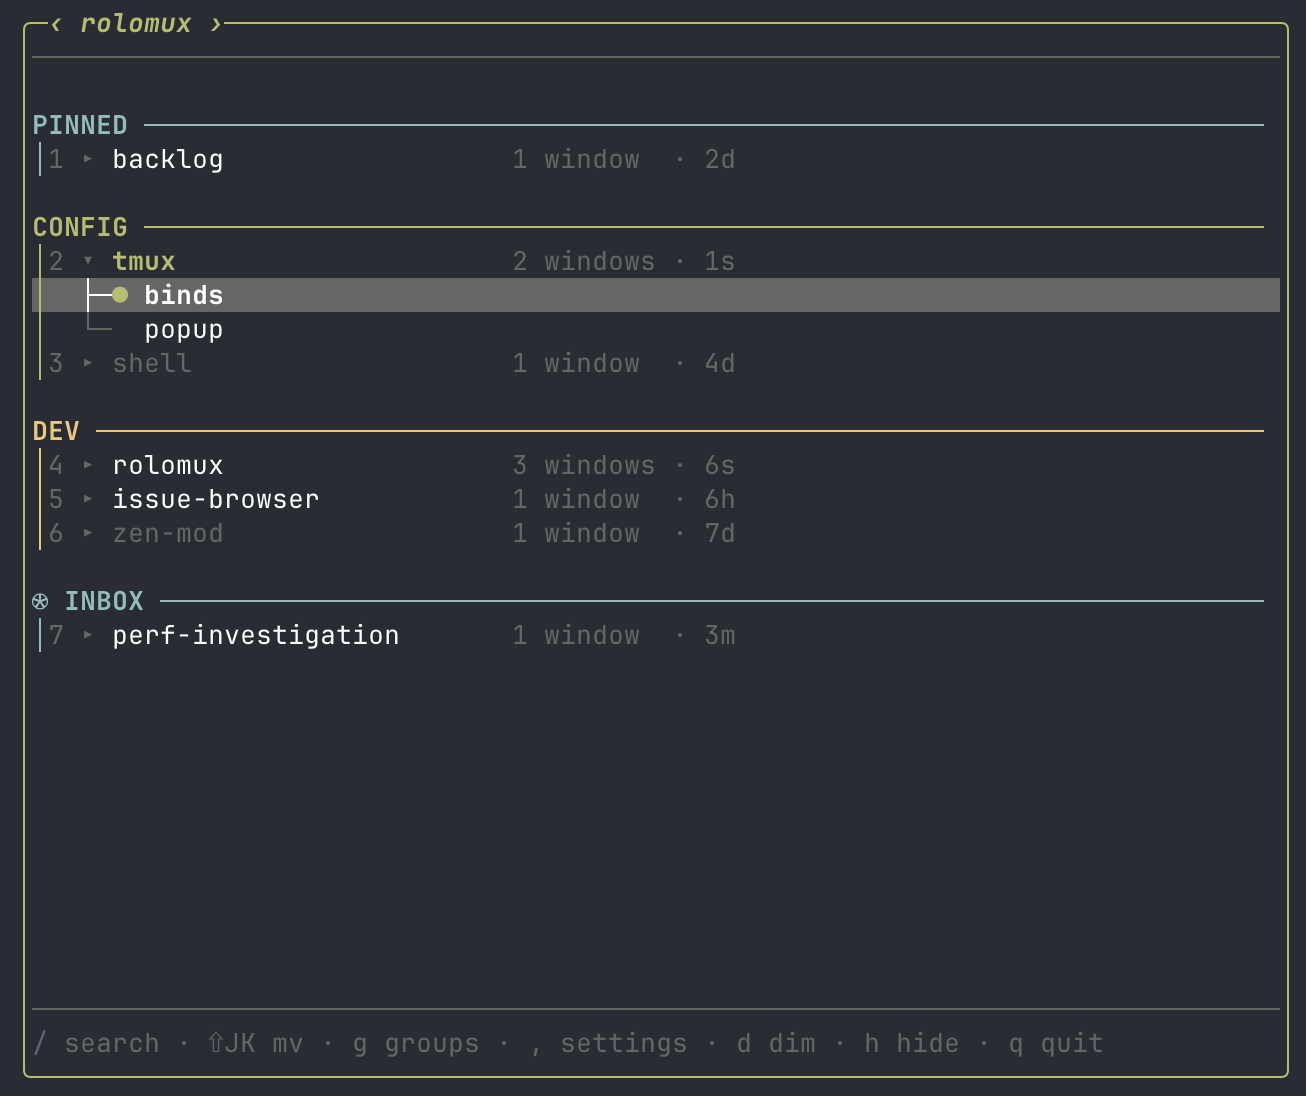
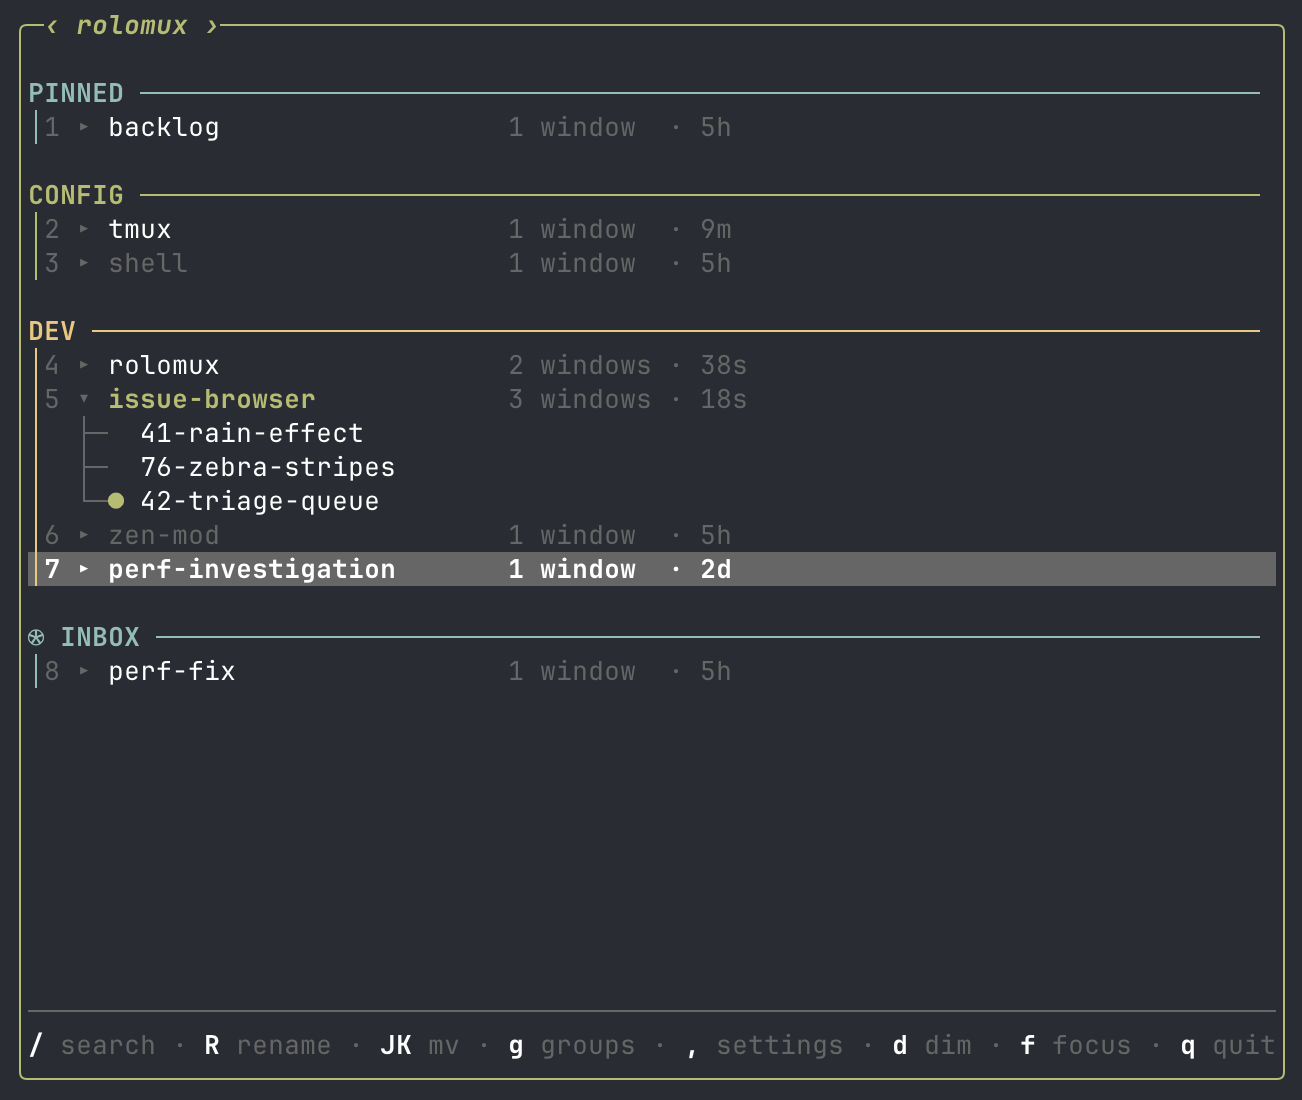
Chrome polish: green default, no gray title bar, brighter footer shortcuts (#110)
* Default border and attached-session color to green (#85)

Changes the two production defaults in Config (attached_color,
border_color) from cyan to green, and updates the 12 tests across
store.rs, model.rs, and ui.rs whose expectations were tied to the old
cyan default: 2 in store.rs, 8 in model.rs (color-picker cursor
positions and cycle targets shift since green sits at index 2 in
ALL_NAMED_COLORS vs cyan at index 6), and 2 in ui.rs (rendered swatch
text). No production code changed outside store.rs.

* Remove gray divider rule under title, collapse chrome to one row (#81)

* Brighten shortcut keys in every footer hint (#86)

* Refresh README screenshots for chrome polish (#85, #81, #86)

* Bump version to 0.23.2

---------

diff --git a/src/ui.rs b/src/ui.rs
@@ -32,10 +32,12 @@ const META_BUDGET: usize = 18;
 /// only separation between rolomux's frame and the surrounding tmux panes; it
 /// keeps the picker from sitting flush against busy content behind the popup.
 const POPUP_MARGIN: u16 = 2;
-/// Rows reserved right under the top border for the letterhead divider and a
-/// blank breathing-room row, separating the title's chrome from the first
-/// group header so content doesn't start flush against it.
-const TITLE_CHROME_ROWS: u16 = 2;
+/// Rows reserved right under the top border as blank breathing room,
+/// separating the title's chrome from the first group header so content
+/// doesn't start flush against it. Used to be two rows (a DarkGray divider
+/// rule plus this blank row); the rule was removed (issue #81) since it
+/// read as visual clutter rather than a useful separator.
+const TITLE_CHROME_ROWS: u16 = 1;
 
 const FOOTER_HINT: &str =
     "/ search · R rename · JK mv · g groups · , settings · d dim · f focus · q quit";
@@ -134,14 +136,7 @@ pub fn draw(frame: &mut Frame, state: &PickerState) {
         .direction(Direction::Vertical)
         .constraints([Constraint::Length(TITLE_CHROME_ROWS), Constraint::Min(0)])
         .split(inner);
-    let chrome_area = chunks[0];
     let content = chunks[1];
-
-    let rule = "─".repeat(chrome_area.width as usize);
-    frame.render_widget(
-        Paragraph::new(Line::from(Span::styled(rule, Style::default().fg(DIM)))),
-        chrome_area,
-    );
 
     match state.mode {
         Mode::Command => draw_command(frame, state, content),
@@ -273,14 +268,17 @@ fn draw_command(frame: &mut Frame, state: &PickerState, inner: Rect) {
     // Render the divider and hint row inside the footer area. A pending
     // window-move confirm is destructive if missed, so it renders in
     // WARNING (red) rather than the normal dim hint color.
-    let hint_style = if state.pending_window_move_warning().is_some() {
-        Style::default().fg(WARNING).add_modifier(Modifier::BOLD)
+    let hint_line = if let Some(warning) = state.pending_window_move_warning() {
+        Line::from(Span::styled(
+            warning.to_string(),
+            Style::default().fg(WARNING).add_modifier(Modifier::BOLD),
+        ))
     } else {
-        Style::default().fg(DIM)
+        styled_hint(&command_footer_hint(state))
     };
     let footer = Paragraph::new(vec![
         Line::from(Span::styled(footer_rule(footer_area.width, state), Style::default().fg(DIM))),
-        Line::from(Span::styled(command_footer_hint(state), hint_style)),
+        hint_line,
     ]);
     frame.render_widget(footer, footer_area);
 }
@@ -349,7 +347,7 @@ fn draw_search(frame: &mut Frame, state: &PickerState, inner: Rect) {
 
     let footer = Paragraph::new(vec![
         Line::from(Span::styled(footer_rule(chunks[2].width, state), Style::default().fg(DIM))),
-        Line::from(Span::styled(search_footer_hint(state), Style::default().fg(DIM))),
+        styled_hint(&search_footer_hint(state)),
     ]);
     frame.render_widget(footer, chunks[2]);
 }
@@ -403,7 +401,7 @@ fn draw_groups(frame: &mut Frame, state: &PickerState, inner: Rect) {
     let rule = "─".repeat(footer_area.width as usize);
     let footer = Paragraph::new(vec![
         Line::from(Span::styled(rule, Style::default().fg(DIM))),
-        Line::from(Span::styled(GROUP_FOOTER_HINT, Style::default().fg(DIM))),
+        styled_hint(GROUP_FOOTER_HINT),
     ]);
     frame.render_widget(footer, footer_area);
 }
@@ -528,7 +526,7 @@ fn draw_settings(frame: &mut Frame, state: &PickerState, inner: Rect) {
     let footer = Paragraph::new(vec![
         Line::from(Span::styled(rule, Style::default().fg(DIM))),
         Line::from(Span::styled(current_description, Style::default())),
-        Line::from(Span::styled(SETTINGS_FOOTER_HINT, Style::default().fg(DIM))),
+        styled_hint(SETTINGS_FOOTER_HINT),
     ]);
     frame.render_widget(footer, footer_area);
 }
@@ -782,6 +780,27 @@ fn command_footer_hint(state: &PickerState) -> String {
 
 fn search_footer_hint(_state: &PickerState) -> String {
     SEARCH_FOOTER_HINT.to_string()
+}
+
+/// Style a `"key desc · key desc"` hint line so each segment's leading key
+/// token renders brighter (bold, plain default fg) than its DarkGray
+/// description, giving shortcut areas contrast against the rest of the dim
+/// chrome (issue #86). Shared by all four footer-hint render sites.
+fn styled_hint(text: &str) -> Line<'static> {
+    let mut spans = Vec::new();
+    for (i, segment) in text.split(" · ").enumerate() {
+        if i > 0 {
+            spans.push(Span::styled(" · ", Style::default().fg(DIM)));
+        }
+        match segment.split_once(' ') {
+            Some((key, desc)) => {
+                spans.push(Span::styled(key.to_string(), Style::default().add_modifier(Modifier::BOLD)));
+                spans.push(Span::styled(format!(" {desc}"), Style::default().fg(DIM)));
+            }
+            None => spans.push(Span::styled(segment.to_string(), Style::default().fg(DIM))),
+        }
+    }
+    Line::from(spans)
 }
 
 /// Shared geometry for the metadata block, computed once per render so every
@@ -1303,6 +1322,27 @@ mod tests {
     }
 
     #[test]
+    fn no_dim_rule_renders_between_title_and_first_group_header() {
+        let sessions = vec![Session { name: "a".into(), activity: 1, created: 1, attached: false,
+                                       windows: vec![] }];
+        let cfg = Config { groups: vec![], ..Default::default() };
+        let state = PickerState::build(sessions, &cfg);
+        let backend = TestBackend::new(84, 20);
+        let mut terminal = Terminal::new(backend).unwrap();
+        terminal.draw(|f| draw(f, &state)).unwrap();
+        let buf = terminal.backend().buffer().clone();
+        // The row directly under the top border (which itself carries the
+        // title) used to hold the DarkGray divider rule; it must now be blank.
+        let chrome_row = POPUP_MARGIN + 1;
+        let sample_x = POPUP_MARGIN + 3;
+        assert_ne!(
+            buf[(sample_x, chrome_row)].symbol(),
+            "─",
+            "the row under the title should be blank, not a divider rule"
+        );
+    }
+
+    #[test]
     fn attached_session_name_uses_the_configured_attached_color() {
         let sessions = vec![Session { name: "current".into(), activity: 1, created: 1, attached: true,
                                        windows: vec![] }];
@@ -1802,6 +1842,54 @@ mod tests {
             text.contains(FOOTER_HINT),
             "footer hint must render untruncated at the real 84-column popup width"
         );
+    }
+
+    #[test]
+    fn styled_hint_brightens_key_and_dims_description() {
+        let line = styled_hint("R rename · Esc back");
+        let spans: Vec<(String, Style)> =
+            line.spans.iter().map(|s| (s.content.to_string(), s.style)).collect();
+        assert_eq!(
+            spans,
+            vec![
+                ("R".to_string(), Style::default().add_modifier(Modifier::BOLD)),
+                (" rename".to_string(), Style::default().fg(DIM)),
+                (" · ".to_string(), Style::default().fg(DIM)),
+                ("Esc".to_string(), Style::default().add_modifier(Modifier::BOLD)),
+                (" back".to_string(), Style::default().fg(DIM)),
+            ]
+        );
+    }
+
+    #[test]
+    fn command_footer_hint_brightens_key_tokens_in_the_real_render() {
+        let sessions = vec![Session { name: "a".into(), activity: 1, created: 1, attached: false,
+                                       windows: vec![] }];
+        let cfg = Config { groups: vec![], ..Default::default() };
+        let state = PickerState::build(sessions, &cfg);
+        let backend = TestBackend::new(84, 20);
+        let mut terminal = Terminal::new(backend).unwrap();
+        terminal.draw(|f| draw(f, &state)).unwrap();
+        let buf = terminal.backend().buffer().clone();
+        let mut checked = false;
+        // find_text_x (not a raw `String::find` over concatenated symbols)
+        // because the footer line contains multi-byte glyphs ("│", "·")
+        // before "rename"; a byte offset would overshoot the real column.
+        for y in 0..buf.area.height {
+            if let Some(x) = find_text_x(&buf, y, "rename") {
+                let key_style = buf[(x - 2, y)].style(); // the "R" in "R rename"
+                // ratatui::buffer::Cell::style() always reports `fg: Some(_)`
+                // (cells carry a concrete Color, defaulting to Reset, never
+                // "unset"), so "plain default fg" is Some(Color::Reset), not
+                // literal None.
+                assert_eq!(key_style.fg, Some(Color::Reset), "key token renders in the plain default fg, not dim");
+                assert!(key_style.add_modifier.contains(Modifier::BOLD), "key token renders bold");
+                let desc_style = buf[(x, y)].style();
+                assert_eq!(desc_style.fg, Some(Color::DarkGray), "description stays dim");
+                checked = true;
+            }
+        }
+        assert!(checked, "expected to find the rename hint in the command-mode footer");
     }
 
     #[test]
@@ -2673,8 +2761,8 @@ mod tests {
         let text = render_to_string(&settings_view());
         assert!(text.contains("Attached session color"));
         assert!(text.contains("Border color"));
-        // Both default to cyan and render collapsed with a swatch + name.
-        assert_eq!(text.matches("cyan").count(), 2, "one swatch label per collapsed color row");
+        // Both default to green and render collapsed with a swatch + name.
+        assert_eq!(text.matches("green").count(), 2, "one swatch label per collapsed color row");
     }
 
     #[test]
@@ -2713,7 +2801,7 @@ mod tests {
         let text = render_to_string_sized(&st, 80, 24);
         assert!(text.contains("[x]"), "active color checked");
         assert!(text.contains("[ ]"), "inactive color unchecked");
-        assert!(text.contains("cyan"));
+        assert!(text.contains("green"));
         assert!(text.contains("black"));
     }
 

diff --git a/src/model.rs b/src/model.rs
@@ -3276,10 +3276,10 @@ mod tests {
     }
 
     #[test]
-    fn attached_and_border_color_default_to_cyan() {
+    fn attached_and_border_color_default_to_green() {
         let st = settings_state();
-        assert_eq!(st.attached_color, "cyan");
-        assert_eq!(st.border_color, "cyan");
+        assert_eq!(st.attached_color, "green");
+        assert_eq!(st.border_color, "green");
     }
 
     #[test]
@@ -3291,8 +3291,8 @@ mod tests {
         assert_eq!(st.settings_visible_rows().len(), 8 + 16, "expanded into 16 options");
         assert_eq!(
             st.settings_visible_rows()[st.settings_cursor()],
-            SettingsRow::AttachedColorOption(6),
-            "cursor lands on the currently selected color (cyan, index 6), not row 0"
+            SettingsRow::AttachedColorOption(2),
+            "cursor lands on the currently selected color (green, index 2), not row 0"
         );
         st.settings_step_left();
         assert_eq!(st.settings_visible_rows().len(), 8, "collapsed back");
@@ -3307,8 +3307,8 @@ mod tests {
         assert_eq!(st.settings_visible_rows().len(), 8 + 16);
         assert_eq!(
             st.settings_visible_rows()[st.settings_cursor()],
-            SettingsRow::BorderColorOption(6),
-            "cursor lands on the currently selected color (cyan, index 6)"
+            SettingsRow::BorderColorOption(2),
+            "cursor lands on the currently selected color (green, index 2)"
         );
         st.settings_step_left();
         assert_eq!(st.settings_visible_rows().len(), 8);
@@ -3319,11 +3319,11 @@ mod tests {
     fn activate_on_an_attached_color_option_commits_and_collapses() {
         let mut st = settings_state();
         st.settings_move_cursor(4); // AttachedColor
-        st.settings_step_right(); // expand, cursor lands on index 6 (cyan)
-        st.settings_move_cursor(-1); // step to index 5 ("magenta")
-        assert_eq!(st.settings_visible_rows()[st.settings_cursor()], SettingsRow::AttachedColorOption(5));
+        st.settings_step_right(); // expand, cursor lands on index 2 (green)
+        st.settings_move_cursor(-1); // step to index 1 ("red")
+        assert_eq!(st.settings_visible_rows()[st.settings_cursor()], SettingsRow::AttachedColorOption(1));
         st.settings_activate();
-        assert_eq!(st.attached_color, "magenta");
+        assert_eq!(st.attached_color, "red");
         assert!(st.dirty);
         assert_eq!(st.settings_visible_rows().len(), 8, "collapsed after committing");
         assert_eq!(st.settings_cursor(), 4, "cursor returned to the AttachedColor row");
@@ -3333,11 +3333,11 @@ mod tests {
     fn activate_on_a_border_color_option_commits_and_collapses() {
         let mut st = settings_state();
         st.settings_move_cursor(5); // BorderColor
-        st.settings_step_right();
-        st.settings_move_cursor(-5); // index 6 -> index 1 ("red")
-        assert_eq!(st.settings_visible_rows()[st.settings_cursor()], SettingsRow::BorderColorOption(1));
+        st.settings_step_right(); // expand, cursor lands on index 2 (green)
+        st.settings_move_cursor(1); // step to index 3 ("yellow")
+        assert_eq!(st.settings_visible_rows()[st.settings_cursor()], SettingsRow::BorderColorOption(3));
         st.settings_activate();
-        assert_eq!(st.border_color, "red");
+        assert_eq!(st.border_color, "yellow");
         assert!(st.dirty);
         assert_eq!(st.settings_cursor(), 5, "cursor returned to the BorderColor row");
     }
@@ -3347,9 +3347,9 @@ mod tests {
         let mut st = settings_state();
         st.settings_move_cursor(4);
         st.settings_step_right();
-        st.settings_move_cursor(-1); // onto "magenta"
+        st.settings_move_cursor(-1); // onto "red"
         st.settings_step_left(); // cancel, not activate
-        assert_eq!(st.attached_color, "cyan", "unchanged: h cancels rather than commits");
+        assert_eq!(st.attached_color, "green", "unchanged: h cancels rather than commits");
         assert_eq!(st.settings_cursor(), 4);
     }
 
@@ -3571,7 +3571,7 @@ mod tests {
         let mut st = settings_state();
         st.settings_move_cursor(4); // AttachedColor, collapsed
         st.settings_cycle_color();
-        assert_eq!(st.attached_color, "gray", "cyan -> gray, next in ALL_NAMED_COLORS");
+        assert_eq!(st.attached_color, "yellow", "green -> yellow, next in ALL_NAMED_COLORS");
         assert!(st.dirty);
         assert_eq!(st.settings_visible_rows().len(), 8, "stays collapsed");
     }
@@ -3581,7 +3581,7 @@ mod tests {
         let mut st = settings_state();
         st.settings_move_cursor(5); // BorderColor, collapsed
         st.settings_cycle_color();
-        assert_eq!(st.border_color, "gray");
+        assert_eq!(st.border_color, "yellow");
         assert!(st.dirty);
         assert_eq!(st.settings_visible_rows().len(), 8, "stays collapsed");
     }

diff --git a/src/store.rs b/src/store.rs
@@ -61,8 +61,8 @@ impl Default for Config {
             new_group_color_policy: ColorPolicy::default(),
             static_color: "cyan".to_string(),
             active_palette: default_active_palette(),
-            attached_color: "cyan".to_string(),
-            border_color: "cyan".to_string(),
+            attached_color: "green".to_string(),
+            border_color: "green".to_string(),
             remember_expanded_sessions: false,
             expanded: Vec::new(),
             session_metric: SessionMetric::default(),
@@ -217,8 +217,8 @@ impl Config {
             .map(ColorPolicy::from_config_str)
             .unwrap_or_default();
         let static_color = raw.settings.static_color.unwrap_or_else(|| "cyan".to_string());
-        let attached_color = raw.settings.attached_color.unwrap_or_else(|| "cyan".to_string());
-        let border_color = raw.settings.border_color.unwrap_or_else(|| "cyan".to_string());
+        let attached_color = raw.settings.attached_color.unwrap_or_else(|| "green".to_string());
+        let border_color = raw.settings.border_color.unwrap_or_else(|| "green".to_string());
         let active_palette = raw
             .settings
             .active_palette
@@ -702,8 +702,8 @@ mod tests {
         assert!(cfg.number_dormant_sessions);
         assert_eq!(cfg.new_group_color_policy, ColorPolicy::Rotate);
         assert_eq!(cfg.static_color, "cyan");
-        assert_eq!(cfg.attached_color, "cyan");
-        assert_eq!(cfg.border_color, "cyan");
+        assert_eq!(cfg.attached_color, "green");
+        assert_eq!(cfg.border_color, "green");
         assert_eq!(
             cfg.active_palette,
             HEADER_COLORS.iter().map(|s| s.to_string()).collect::<Vec<_>>()
@@ -722,8 +722,8 @@ mod tests {
         assert!(cfg.number_dormant_sessions);
         assert_eq!(cfg.new_group_color_policy, ColorPolicy::Rotate);
         assert_eq!(cfg.static_color, "cyan");
-        assert_eq!(cfg.attached_color, "cyan");
-        assert_eq!(cfg.border_color, "cyan");
+        assert_eq!(cfg.attached_color, "green");
+        assert_eq!(cfg.border_color, "green");
         assert_eq!(
             cfg.active_palette,
             HEADER_COLORS.iter().map(|s| s.to_string()).collect::<Vec<_>>()